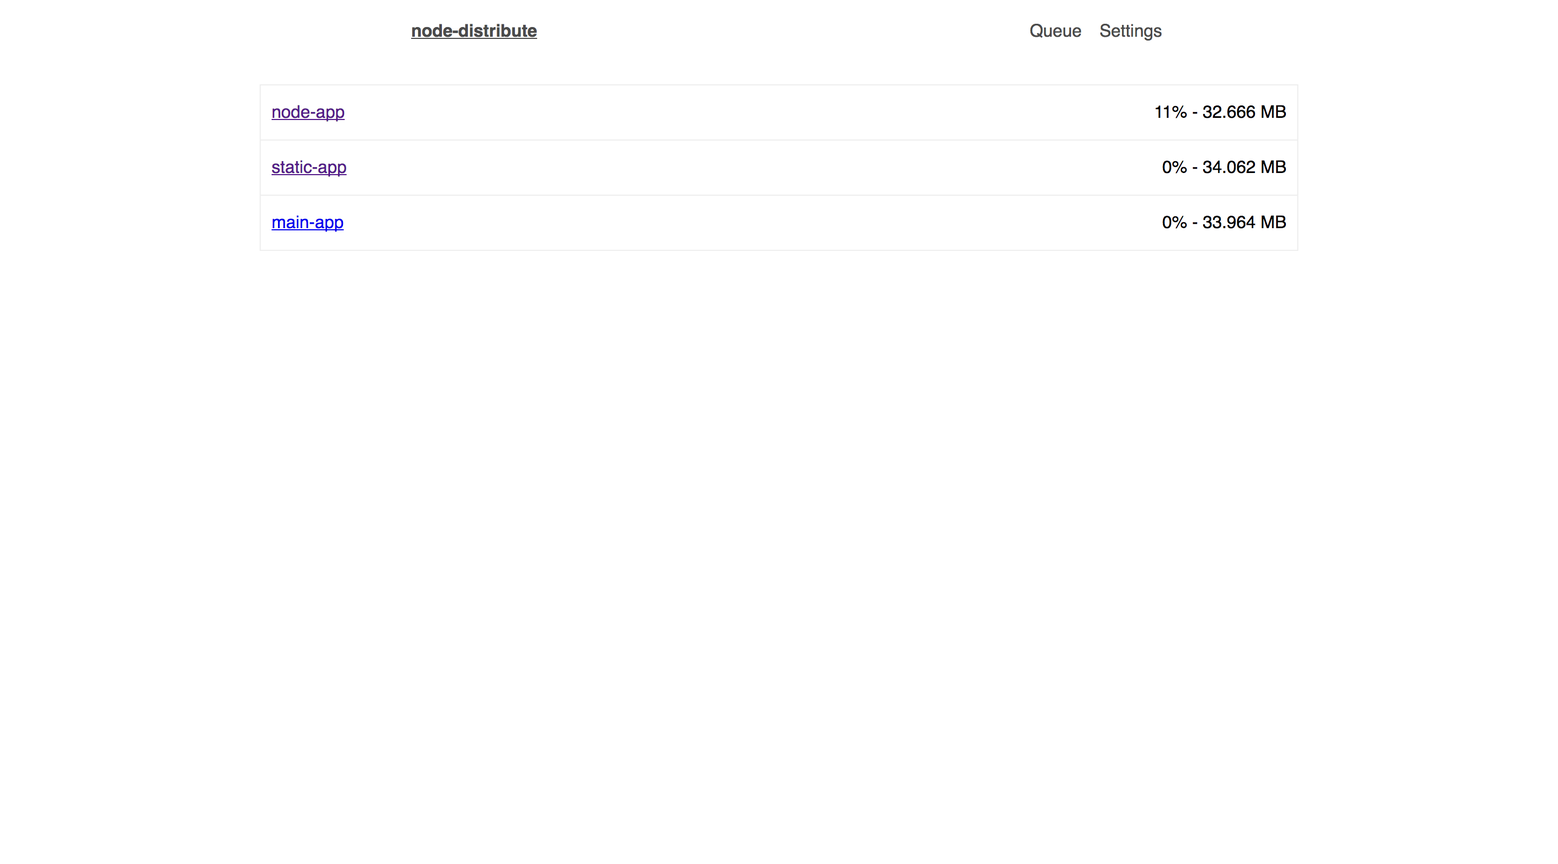
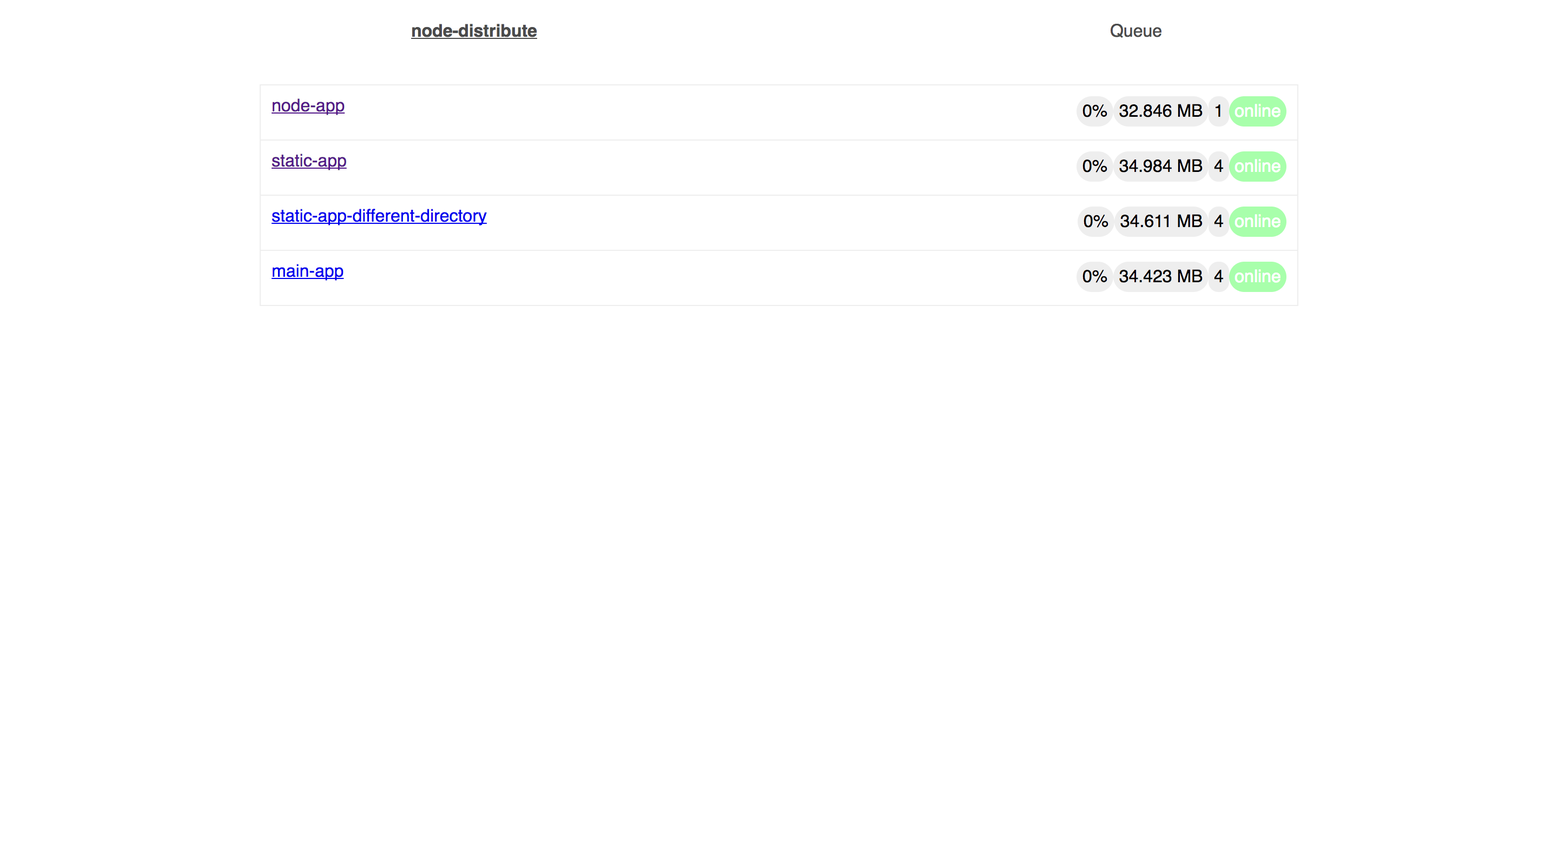
show pm2 information on application specific page (#50)
- backend
  - passes created_at, status, instances from process-usage to parent process
  - startup admin emits events for {instance}-uptime which emits created_at, status, instances
- frontend
  - shows the status and instances on application-list page
  - shows the status, instances and uptime on application-view page

diff --git a/operations/views/admin/dist/app.js b/operations/views/admin/dist/app.js
@@ -6,13 +6,34 @@
 \t                            <a :href="'/application/' + process.name"> {{ process.name }} </a>
 \t                        </div>
 \t                        <div class="list-item-right">
-\t                            {{ process.cpu[process.cpu - 1] ? process.cpu[process.cpu - 1][1] : 0 }}%
-\t                            -
-\t                            {{ formatSize(process.memory[process.memory.length - 1] ? process.memory[process.memory.length - 1][1] : 0) }}
+\t                            <div class="badge badge-default popover-container">
+\t                              {{ process.cpu[process.cpu - 1] ? process.cpu[process.cpu - 1][1] : 0 }}%
+\t                              <span class="popover top">CPU</span>
+\t                            </div>
+\t
+\t                            <div class="badge badge-default popover-container">
+\t                              {{ formatSize(process.memory[process.memory.length - 1] ? process.memory[process.memory.length - 1][1] : 0) }}
+\t                              <span class="popover top">Memory</span>
+\t                            </div>
+\t
+\t                            <div class="badge badge-default popover-container">
+\t                              {{ process.instances }}
+\t                              <span class="popover top">Instance Count</span>
+\t                            </div>
+\t
+\t                            <div v-if="process.status === 'online'" class="badge badge-success popover-container">
+\t                              {{ process.status }}
+\t                              <span class="popover top">Status</span>
+\t                            </div>
+\t                            <div v-else class="badge badge-default popover-container">
+\t                              {{ process.status }}
+\t                              <span class="popover top">Status</span>
+\t                            </div>
+\t
 \t                        </div>
 \t                      </li>
 \t                    </ul>
-\t                </div>`,data:{processes:{}},created:function(){var e=this;if("undefined"!=typeof window){var t=io.connect("/");i("/api/process/json",function(n){e.processes=n,e.processes.forEach(function(n,a){t.on(n.name+"-memory",function(t){e.processes[a].cpu.push(t.cpu),e.processes[a].memory.push(t.memory)})})})}},methods:{formatSize:function(e){if(0==e)return"0 B";var t=["B","KB","MB","GB","TB","PB","EB","ZB","YB"],n=Math.floor(Math.log(e)/Math.log(1e3));return parseFloat((e/Math.pow(1e3,n)).toFixed(3))+" "+t[n]}}},"^/application/((?:[^/]+?))(?:/(?=$))?$":{template:`<div id="app">
+\t                </div>`,data:{processes:{}},created:function(){var e=this;if("undefined"!=typeof window){var t=io.connect("/");i("/api/process/json",function(n){e.processes=n,e.processes.forEach(function(n,a){t.on(n.name+"-memory",function(t){e.processes[a].cpu.push(t.cpu),e.processes[a].memory.push(t.memory)}),t.on(n.name+"-uptime",function(t){e.processes[a].created_at=t.created_at,e.processes[a].status=t.status,e.processes[a].instances=t.instances})})})}},methods:{formatSize:function(e){if(0==e)return"0 B";var t=["B","KB","MB","GB","TB","PB","EB","ZB","YB"],n=Math.floor(Math.log(e)/Math.log(1e3));return parseFloat((e/Math.pow(1e3,n)).toFixed(3))+" "+t[n]}}},"^/application/((?:[^/]+?))(?:/(?=$))?$":{template:`<div id="app">
 \t                    <div class="grid">
 \t                        <div class="col-12-12">
 \t                            <div v-if="error" class="alert alert-danger" style="border-radius:5px;"> {{ error }} </div>
@@ -59,6 +80,28 @@
 \t                        </div>
 \t
 \t                        <div class="col-12-12">
+\t                          <h3>Daemon Information</h3>
+\t                          <ul class="list text-left">
+\t                            <li class="list-item">Status
+\t                              <div v-if="status === 'online'" class="badge badge-success popover-container">
+\t                                {{ status }}
+\t                                <span class="popover top">Status</span>
+\t                              </div>
+\t                              <div v-else class="badge badge-default popover-container">
+\t                                {{ status }}
+\t                                <span class="popover top">Status</span>
+\t                              </div>
+\t                            </li>
+\t                            <li class="list-item">Instance Count
+\t                              <div class="badge badge-default">{{ instances }}</div>
+\t                            </li>
+\t                            <li class="list-item">Uptime
+\t                              <div class="badge badge-default">{{ uptime }}</div>
+\t                            </li>
+\t                          </ul>
+\t                        </div>
+\t
+\t                        <div class="col-12-12">
 \t                            <h3>memory <small>~ {{ formatSize(currentMemory) }}</small></h3>
 \t                            <canvas id="chart-memory"></canvas>
 \t                        </div>
@@ -83,7 +126,7 @@
 \t                            <pre class="process-logs" id="log-view">{{ readableLogs }}</pre>
 \t                        </div>
 \t                    </div>
-\t                </div>`,data:{traffic:[],memory:[],currentMemory:0,cpu:[],logs:[],readableLogs:"",referrers:{},countries:{},name:"",url:"",remoteUpstream:"",error:"",info:"",deployed:!0,editingLoading:!1,editable:!1,config:{},charts:{memoryChart:{},trafficChart:{},countriesChart:{},refferChart:{}}},methods:{redeploy:function(){var e=this;e.deployed=!1,i("/api/process/"+this.name+"/redeploy",function(t){t.success&&(e.deployed=!0)})},editStart:function(){this.editable=!0},editCancel:function(){this.editable=!1},editSave:function(){var e=this;e.editingLoading=!0,e.info="saving config, restarting app...",o("/api/process/"+e.name+"/settings",e.config,function(t,n){200===t?(e.url=window.location.protocol+"//"+("*"===e.config.subdomain?window.location.host.replace("admin.",""):window.location.host.replace("admin",e.config.subdomain)),e.remoteUpstream=window.location.protocol+"//"+e.config.users[0].user.username+":"+e.config.users[0].user.password+"@"+window.location.hostname.replace("admin.","")+":7000/"+e.config.name+".git",e.info=n.success,setTimeout(function(){e.info=""},1e3)):e.error=n.error,e.editable=!1,e.editingLoading=!1})},editKeydown:function(e){var t=this;try{var n=JSON.parse(e.target.value);t.config=n,t.error=""}catch(e){t.error="error parsing config changes"}},formatSize:function(e){if(0==e)return"0 B";var t=["B","KB","MB","GB","TB","PB","EB","ZB","YB"],n=Math.floor(Math.log(e)/Math.log(1e3));return parseFloat((e/Math.pow(1e3,n)).toFixed(3))+" "+t[n]},dynamicColors:function(e){var t=(16777215*(e/20||Math.random())<<0).toString(16),n=parseInt(t.substring(0,2),16),a=parseInt(t.substring(2,4),16),r=parseInt(t.substring(4,6),16);return"rgba("+n+","+a+","+r+", 1)"},formatCountryandReffererData:function(){var e=this;e.countries={},e.referrers={},e.traffic.forEach(function(t){t.traffic.forEach(function(t){t[2]&&(e.countries[t[2].country]=e.countries[t[2].country]?e.countries[t[2].country]+1:1),t[3]&&(e.referrers[t[3]]=e.referrers[t[3]]?e.referrers[t[3]]+1:1)})})},getMemoryChartData:function(){return this.memory.map(function(e){return{x:e[0],y:e[1]}},[])},getCPUChartData:function(){return this.cpu.map(function(e){return{x:e[0],y:e[1]}},[])},getTrafficChartData:function(){var e=this;return e.traffic.map(function(t,n){var a=e.dynamicColors(n+1);return{label:t.url,borderColor:a,backgroundColor:"transparent",data:t.traffic.map(function(e){return{x:e[0],y:e[1]}})}},[])},getReffererChartData:function(){var e=this;return{labels:Object.keys(e.referrers),datasets:[{label:"Refferer Traffic",data:Object.keys(e.referrers).map(function(t){return e.referrers[t]})}]}},getCountryChartData:function(){var e=this;return{labels:Object.keys(e.countries),datasets:[{label:"Country Traffic",data:Object.keys(e.countries).map(function(t){return e.countries[t]})}]}},createCharts:function(){var e=this;e.formatCountryandReffererData(),e.charts.memoryChart=new r(document.getElementById("chart-memory"),{type:"line",data:{datasets:[{label:"Memory",borderColor:e.dynamicColors(1),backgroundColor:"transparent",data:e.getMemoryChartData()},{label:"CPU",borderColor:e.dynamicColors(2),backgroundColor:"transparent",data:e.getCPUChartData()}]},options:{tooltips:{callbacks:{title:function(t){return 0==t[0].datasetIndex?e.formatSize(t[0].yLabel):t[0].yLabel+"%"},label:function(e,n){return t(n.xLabel).format()}}},scales:{yAxes:[{ticks:{beginAtZero:!0,callback:function(t){return e.formatSize(t)}}}],xAxes:[{type:"linear",position:"bottom",ticks:{callback:function(e){return t(e).format("h:mm:ss a")}}}]}}}),e.charts.trafficChart=new r(document.getElementById("chart-traffic"),{type:"line",data:{datasets:e.getTrafficChartData()},options:{tooltips:{callbacks:{title:function(e,t){return t.datasets[e[0].datasetIndex].label+"\n"+e[0].yLabel+"ms"},label:function(e,n){return t(n.xLabel).format()}}},scales:{yAxes:[{ticks:{beginAtZero:!0,callback:function(e){return e}}}],xAxes:[{type:"linear",position:"bottom",ticks:{callback:function(e){return t(e).format("h:mm:ss a")}}}]}}}),e.charts.countriesChart=new r(document.getElementById("chart-countries"),{type:"bar",data:e.getCountryChartData(),options:{scales:{yAxes:[{ticks:{beginAtZero:!0}}]}}}),e.charts.refferChart=new r(document.getElementById("chart-referrers"),{type:"bar",data:e.getReffererChartData(),options:{scales:{yAxes:[{ticks:{beginAtZero:!0}}]}}})},updateCharts:function(){var e=this;e.charts.trafficChart.data.datasets=e.getTrafficChartData(),e.charts.memoryChart.data.datasets[0].data=e.getMemoryChartData(),e.charts.memoryChart.data.datasets[1].data=e.getCPUChartData(),e.formatCountryandReffererData(),e.charts.countriesChart.data.labels=e.getCountryChartData().labels,e.charts.countriesChart.data.datasets=e.getCountryChartData().datasets,e.charts.refferChart.data.labels=e.getReffererChartData().labels,e.charts.refferChart.data.datasets=e.getReffererChartData().datasets,e.charts.trafficChart.update(0,!0),e.charts.memoryChart.update(0,!0),e.charts.countriesChart.update(0,!0),e.charts.refferChart.update(0,!0)}},updated:function(){var e=document.getElementById("log-view");e.scrollTop=e.scrollHeight},created:function(){var t=this,n=new RegExp("^/application/((?:[^/]+?))(?:/(?=$))?$","i").exec(e||window.location.pathname)[1];if("undefined"!=typeof window){var a=io.connect("/");a.on(n+"-logs",function(e){t.logs.push(e)}),a.on(n+"-traffic",function(e){var n=!1;t.traffic.forEach(function(t){t.url===e.url&&(n=!0,t.traffic.push(e.traffic[0]))}),n||t.traffic.push(e),t.updateCharts()}),a.on(n+"-memory",function(e){t.cpu.push(e.cpu),t.memory.push(e.memory),t.currentMemory=Array.isArray(t.memory)&&t.memory[0]&&t.memory[0].length>0?t.memory[t.memory.length-1][1]||0:0,t.updateCharts()}),i("/api/process/"+n+"/json",function(e){t.name=n,t.config=e.repo,t.logs=e.logs,t.readableLogs=e.logs.join("\n"),t.cpu=e.cpu,t.memory=e.memory,t.traffic=e.traffic,t.url=window.location.protocol+"//"+("*"===t.config.subdomain?window.location.host.replace("admin.",""):window.location.host.replace("admin",t.config.subdomain)),t.remoteUpstream=window.location.protocol+"//"+t.config.users[0].user.username+":"+t.config.users[0].user.password+"@"+window.location.hostname.replace("admin.","")+":7000/"+t.config.name+".git",t.createCharts()})}}},404:{template:`<div id="app">
+\t                </div>`,data:{traffic:[],memory:[],currentMemory:0,cpu:[],logs:[],readableLogs:"",referrers:{},countries:{},name:"",url:"",remoteUpstream:"",error:"",info:"",uptime:"",status:"",instances:"",deployed:!0,editingLoading:!1,editable:!1,config:{},charts:{memoryChart:{},trafficChart:{},countriesChart:{},refferChart:{}}},methods:{redeploy:function(){var e=this;e.deployed=!1,e.info="restarting app...",i("/api/process/"+this.name+"/redeploy",function(t){t.success&&(e.deployed=!0,e.info="app deployed!",setTimeout(function(){e.info=""},1e3))})},editStart:function(){this.editable=!0},editCancel:function(){this.editable=!1},editSave:function(){var e=this;e.editingLoading=!0,e.info="saving config, restarting app...",o("/api/process/"+e.name+"/settings",e.config,function(t,n){200===t?(e.url=window.location.protocol+"//"+("*"===e.config.subdomain?window.location.host.replace("admin.",""):window.location.host.replace("admin",e.config.subdomain)),e.remoteUpstream=window.location.protocol+"//"+e.config.users[0].user.username+":"+e.config.users[0].user.password+"@"+window.location.hostname.replace("admin.","")+":7000/"+e.config.name+".git",e.info=n.success,setTimeout(function(){e.info=""},1e3)):e.error=n.error,e.editable=!1,e.editingLoading=!1})},editKeydown:function(e){var t=this;try{var n=JSON.parse(e.target.value);t.config=n,t.error=""}catch(e){t.error="error parsing config changes"}},formatSize:function(e){if(0==e)return"0 B";var t=["B","KB","MB","GB","TB","PB","EB","ZB","YB"],n=Math.floor(Math.log(e)/Math.log(1e3));return parseFloat((e/Math.pow(1e3,n)).toFixed(3))+" "+t[n]},dynamicColors:function(e){var t=(16777215*(e/20||Math.random())<<0).toString(16),n=parseInt(t.substring(0,2),16),a=parseInt(t.substring(2,4),16),r=parseInt(t.substring(4,6),16);return"rgba("+n+","+a+","+r+", 1)"},formatCountryandReffererData:function(){var e=this;e.countries={},e.referrers={},e.traffic.forEach(function(t){t.traffic.forEach(function(t){t[2]&&(e.countries[t[2].country]=e.countries[t[2].country]?e.countries[t[2].country]+1:1),t[3]&&(e.referrers[t[3]]=e.referrers[t[3]]?e.referrers[t[3]]+1:1)})})},getMemoryChartData:function(){return this.memory.map(function(e){return{x:e[0],y:e[1]}},[])},getCPUChartData:function(){return this.cpu.map(function(e){return{x:e[0],y:e[1]}},[])},getTrafficChartData:function(){var e=this;return e.traffic.map(function(t,n){var a=e.dynamicColors(n+1);return{label:t.url,borderColor:a,backgroundColor:"transparent",data:t.traffic.map(function(e){return{x:e[0],y:e[1]}})}},[])},getReffererChartData:function(){var e=this;return{labels:Object.keys(e.referrers),datasets:[{label:"Refferer Traffic",data:Object.keys(e.referrers).map(function(t){return e.referrers[t]})}]}},getCountryChartData:function(){var e=this;return{labels:Object.keys(e.countries),datasets:[{label:"Country Traffic",data:Object.keys(e.countries).map(function(t){return e.countries[t]})}]}},createCharts:function(){var e=this;e.formatCountryandReffererData(),e.charts.memoryChart=new r(document.getElementById("chart-memory"),{type:"line",data:{datasets:[{label:"Memory",borderColor:e.dynamicColors(1),backgroundColor:"transparent",data:e.getMemoryChartData()},{label:"CPU",borderColor:e.dynamicColors(2),backgroundColor:"transparent",data:e.getCPUChartData()}]},options:{tooltips:{callbacks:{title:function(t){return 0==t[0].datasetIndex?e.formatSize(t[0].yLabel):t[0].yLabel+"%"},label:function(e,n){return t(n.xLabel).format()}}},scales:{yAxes:[{ticks:{beginAtZero:!0,callback:function(t){return e.formatSize(t)}}}],xAxes:[{type:"linear",position:"bottom",ticks:{callback:function(e){return t(e).format("h:mm:ss a")}}}]}}}),e.charts.trafficChart=new r(document.getElementById("chart-traffic"),{type:"line",data:{datasets:e.getTrafficChartData()},options:{tooltips:{callbacks:{title:function(e,t){return t.datasets[e[0].datasetIndex].label+"\n"+e[0].yLabel+"ms"},label:function(e,n){return t(n.xLabel).format()}}},scales:{yAxes:[{ticks:{beginAtZero:!0,callback:function(e){return e}}}],xAxes:[{type:"linear",position:"bottom",ticks:{callback:function(e){return t(e).format("h:mm:ss a")}}}]}}}),e.charts.countriesChart=new r(document.getElementById("chart-countries"),{type:"bar",data:e.getCountryChartData(),options:{scales:{yAxes:[{ticks:{beginAtZero:!0}}]}}}),e.charts.refferChart=new r(document.getElementById("chart-referrers"),{type:"bar",data:e.getReffererChartData(),options:{scales:{yAxes:[{ticks:{beginAtZero:!0}}]}}})},updateCharts:function(){var e=this;e.charts.trafficChart.data.datasets=e.getTrafficChartData(),e.charts.memoryChart.data.datasets[0].data=e.getMemoryChartData(),e.charts.memoryChart.data.datasets[1].data=e.getCPUChartData(),e.formatCountryandReffererData(),e.charts.countriesChart.data.labels=e.getCountryChartData().labels,e.charts.countriesChart.data.datasets=e.getCountryChartData().datasets,e.charts.refferChart.data.labels=e.getReffererChartData().labels,e.charts.refferChart.data.datasets=e.getReffererChartData().datasets,e.charts.trafficChart.update(0,!0),e.charts.memoryChart.update(0,!0),e.charts.countriesChart.update(0,!0),e.charts.refferChart.update(0,!0)}},updated:function(){var e=document.getElementById("log-view");e.scrollTop=e.scrollHeight},created:function(){var n=this,a=new RegExp("^/application/((?:[^/]+?))(?:/(?=$))?$","i").exec(e||window.location.pathname)[1];if("undefined"!=typeof window){var r=io.connect("/");r.on(a+"-logs",function(e){n.logs.push(e)}),r.on(a+"-uptime",function(e){n.uptime=t(e.created_at).fromNow(!0),n.status=e.status,n.instances=e.instances}),r.on(a+"-traffic",function(e){var t=!1;n.traffic.forEach(function(n){n.url===e.url&&(t=!0,n.traffic.push(e.traffic[0]))}),t||n.traffic.push(e),n.updateCharts()}),r.on(a+"-memory",function(e){n.cpu.push(e.cpu),n.memory.push(e.memory),n.currentMemory=Array.isArray(n.memory)&&n.memory[0]&&n.memory[0].length>0?n.memory[n.memory.length-1][1]||0:0,n.updateCharts()}),i("/api/process/"+a+"/json",function(e){n.name=a,n.config=e.repo,n.logs=e.logs,n.readableLogs=e.logs.join("\n"),n.cpu=e.cpu,n.memory=e.memory,n.traffic=e.traffic,n.url=window.location.protocol+"//"+("*"===n.config.subdomain?window.location.host.replace("admin.",""):window.location.host.replace("admin",n.config.subdomain)),n.remoteUpstream=window.location.protocol+"//"+n.config.users[0].user.username+":"+n.config.users[0].user.password+"@"+window.location.hostname.replace("admin.","")+":7000/"+n.config.name+".git",n.createCharts()})}}},404:{template:`<div id="app">
 \t                    <pre style="width:425px;height:300px;" class="vertical-center background-black text-white">
 \t                        <h3> This page does not exist </h3>
 \t                        <h1> 404 </h1>

diff --git a/operations/views/admin/index.js b/operations/views/admin/index.js
@@ -53,9 +53,30 @@
                             <a :href="'/application/' + process.name"> {{ process.name }} </a>
                         </div>
                         <div class="list-item-right">
-                            {{ process.cpu[process.cpu - 1] ? process.cpu[process.cpu - 1][1] : 0 }}%
-                            -
-                            {{ formatSize(process.memory[process.memory.length - 1] ? process.memory[process.memory.length - 1][1] : 0) }}
+                            <div class="badge badge-default popover-container">
+                              {{ process.cpu[process.cpu - 1] ? process.cpu[process.cpu - 1][1] : 0 }}%
+                              <span class="popover top">CPU</span>
+                            </div>
+
+                            <div class="badge badge-default popover-container">
+                              {{ formatSize(process.memory[process.memory.length - 1] ? process.memory[process.memory.length - 1][1] : 0) }}
+                              <span class="popover top">Memory</span>
+                            </div>
+
+                            <div class="badge badge-default popover-container">
+                              {{ process.instances }}
+                              <span class="popover top">Instance Count</span>
+                            </div>
+
+                            <div v-if="process.status === 'online'" class="badge badge-success popover-container">
+                              {{ process.status }}
+                              <span class="popover top">Status</span>
+                            </div>
+                            <div v-else class="badge badge-default popover-container">
+                              {{ process.status }}
+                              <span class="popover top">Status</span>
+                            </div>
+
                         </div>
                       </li>
                     </ul>
@@ -74,6 +95,12 @@
                               socket.on(process.name + '-memory', function(data) {
                                 self.processes[i].cpu.push(data.cpu);
                                 self.processes[i].memory.push(data.memory);
+                              });
+
+                              socket.on(process.name + '-uptime', function(data) {
+                                self.processes[i].created_at = data.created_at;
+                                self.processes[i].status = data.status;
+                                self.processes[i].instances = data.instances;
                               });
                             });
                         });
@@ -136,6 +163,28 @@
                         </div>
 
                         <div class="col-12-12">
+                          <h3>Daemon Information</h3>
+                          <ul class="list text-left">
+                            <li class="list-item">Status
+                              <div v-if="status === 'online'" class="badge badge-success popover-container">
+                                {{ status }}
+                                <span class="popover top">Status</span>
+                              </div>
+                              <div v-else class="badge badge-default popover-container">
+                                {{ status }}
+                                <span class="popover top">Status</span>
+                              </div>
+                            </li>
+                            <li class="list-item">Instance Count
+                              <div class="badge badge-default">{{ instances }}</div>
+                            </li>
+                            <li class="list-item">Uptime
+                              <div class="badge badge-default">{{ uptime }}</div>
+                            </li>
+                          </ul>
+                        </div>
+
+                        <div class="col-12-12">
                             <h3>memory <small>~ {{ formatSize(currentMemory) }}</small></h3>
                             <canvas id="chart-memory"></canvas>
                         </div>
@@ -175,6 +224,9 @@
                     remoteUpstream: '',
                     error: '',
                     info: '',
+                    uptime: '',
+                    status: '',
+                    instances: '',
                     deployed: true,
                     editingLoading: false,
                     editable: false,
@@ -190,9 +242,14 @@
                     redeploy: function() {
                         var self = this;
                         self.deployed = false;
+                        self.info = 'restarting app...';
                         fetch('/api/process/' + this.name + '/redeploy', function(response) {
                             if (response.success) {
                                 self.deployed = true;
+                                self.info = 'app deployed!';
+                                setTimeout(function() {
+                                    self.info = '';
+                                }, 1000);
                             }
                         });
                     },
@@ -473,6 +530,11 @@
                         var socket = io.connect('/');
                         socket.on(application + '-logs', function(data) {
                             self.logs.push(data);
+                        });
+                        socket.on(application + '-uptime', function(data) {
+                          self.uptime = moment(data.created_at).fromNow(true);
+                          self.status = data.status;
+                          self.instances = data.instances;
                         });
                         socket.on(application + '-traffic', function(data) {
                             var found = false;

diff --git a/operations/process-usage.js b/operations/process-usage.js
@@ -11,6 +11,9 @@ setInterval(function() {
           }
           list.forEach(function(item) {
               process.send({
+                  status: item.pm2_env.status,
+                  created_at: item.pm2_env.created_at,
+                  instances: item.pm2_env.instances,
                   name: item.name,
                   monit: item.monit
               });

diff --git a/operations/startup-admin.js b/operations/startup-admin.js
@@ -73,6 +73,12 @@ module.exports = function() {
           memory: memory
         });
 
+        io.sockets.emit(m.name + '-uptime', {
+          created_at: m.created_at,
+          status: m.status,
+          instances: m.instances
+        });
+
         db(m.name, 'cpu').push(cpu);
         db(m.name, 'memory').push(memory);
       }

diff --git a/operations/views/admin/admin.less b/operations/views/admin/admin.less
@@ -28,6 +28,10 @@ html, body {
     padding: 0px;
     height: 400px;
 }
+.list-item {
+  overflow: visible !important;
+  line-height: normal !important;
+}
 canvas {
     width: 100%;
     height:200px;

diff --git a/operations/views/admin/dist/admin.css b/operations/views/admin/dist/admin.css
@@ -29,6 +29,10 @@ body {
   padding: 0px;
   height: 400px;
 }
+.list-item {
+  overflow: visible !important;
+  line-height: normal !important;
+}
 canvas {
   width: 100%;
   height: 200px;
